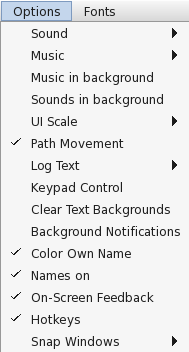
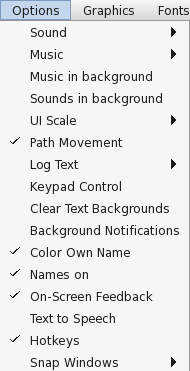
20260809

diff --git a/md/tutorial.md b/md/tutorial.md
@@ -10,11 +10,13 @@ Oberinの最初のログイン
 
 ## 長いまとめ
 
-　初めてOberinにログインするとDemo's Landingと呼ばれるチュートリアルエリアからスタートする。
+　初めてOberinにログインすると**Demo's Landing**と呼ばれるチュートリアルエリアからスタートする。
 
 　最初はメインウインドウだけが表示されている。
 
 ![初期画面](img/default.png)
+
+（注：これはバージョン48.02の画面に48.04のメニューバーの変更分を合成した捏造写真です）
 
 　ここで基本的な操作を一通り覚えてから先に進もう。
 
@@ -24,21 +26,23 @@ Oberinの最初のログイン
         
         　メインウインドウの適当な場所をクリックすると移動する。
         
-        　WindowsではCtrlキー＋クリック・MacではControlキー＋クリックだと移動せず、キャラクターの向きだけ変える。
+        　Windowsでは`Ctrl`＋`クリック`・Macでは`Control`＋`クリック`だと移動せず、キャラクターの向きだけ変える。
         
     - **攻撃**
 
-        　この場ではまだできないけど、WindowsではAltキー＋クリック・MacではOptionキー＋クリックでクリックした対象に攻撃する。
+        　この場ではまだできないけど、Windowsでは`Alt`＋`クリック`・Macでは`Option`＋`クリック`でクリックした対象に攻撃する。
 
         　飛び道具を持っていたら射程内かつ射線が通っていれば攻撃できる。近接武器の場合は至近距離まで近づかないと駄目。
 
     - **発言**
         
-        　**デフォルトでは**Enterキーを押すとメインウインドウ下部の発言窓にチャット入力ができる。何か書き込んでからもう一度Enterキーを押すと実際に発言する。
+        　キーボードから何か打ち込むと、メインウインドウ下部の発言窓にチャット入力ができる。何か書き込んでから`Enter`を押すと実際に発言する。
 
-        　また、発言入力で『/』から始まる文字列を入れるとテキストコマンドとして処理され、普通の発言ではなく何らかの特殊な効果を及ぼす。例えば『/Fishing』と発言するとFishingスキルを使用するのと同じ効果があり、他にも『/help』ならGMを呼び出すコマンドだ。
+        （注： **メニューバーのOptionsにある『Hotkeys』がオンになっている場合は、チャット入力の前に一度`Enter`を押す必要がある。** 昔はHotkeysはオフがデフォルトで、いつ頃からかオンがデフォルトになっていたが、バージョン48.04からまたオフがデフォルトになった……と思いきや、まだオンがデフォルトのままになっていたりするようだ。多分アップデートの際の設定ミスで、最終的にはオフをデフォルトにする方針なのだろうと思われるが…）
 
-        　日本語などのマルチバイト文字の発言はWindowsでは一応書き込めるがMacでは書き込めない。これは一体どうなっとるんか？と思ったら、以前開発者がマルチバイト文字に正式対応するかどうか日本人プレイヤーの意見を募ったところ、コミュニティの総意として「別に要らん」という話になってそのまま対応を見送ったらしい。まあ日本語で発言してもフォント設定で日本語表示に対応してないフォントを選ぶとゲーム画面では文字化けしてしまって読めない（ログファイルを直接開くと普通に日本語の文字として読める）し、海外のプレイヤーはマルチバイト文字を解読するのが非常に大変なので、そもそも英語圏のゲームだって考えたらこんなもんだろう。ちなみにOberinではローマ字での日本語の会話は普通にされている。つまり、nihongono kaiwaha ro-majide siyouneってことだ。この文化は15年前にもあったけど、慣れないとちょっと面倒かも知れないな。
+        　また、発言入力で『`/`』から始まる文字列を入れるとテキストコマンドとして処理され、普通の発言ではなく何らかの特殊な効果を及ぼす。例えば『`/Fishing`』と発言するとFishingスキルを使用するのと同じ効果があり、他にも『`/help`』ならGMを呼び出すコマンドだ。
+
+        　日本語などのマルチバイト文字の発言はWindowsでは一応書き込めるがMacでは書き込めない。これは一体どうなっとるんか？と思ったら、以前開発者がマルチバイト文字に正式対応するかどうか日本人プレイヤーの意見を募ったところ、コミュニティの総意として「別に要らん」という話になってそのまま対応を見送ったらしい。まあ日本語で発言してもフォント設定で日本語表示に対応したフォントを選択してない限りゲーム画面では文字化けしてしまって読めない（ログファイルを直接開くと普通に日本語の文字として読める）し、海外のプレイヤーはマルチバイト文字を解読するのが非常に大変なので、そもそも英語圏のゲームだって考えたらこんなもんだろう。ちなみにOberinではローマ字での日本語の会話は普通にされている。つまり、**nihongono kaiwaha ro-majide siyoune**ってことだ。この文化は15年前にもあったけど、慣れないとちょっと面倒かも知れないな。
         
         　なお、今のところチャット入力にコピペは使えない。使えたら色々と便利だったんだけどなあ。
         
@@ -50,9 +54,9 @@ Oberinの最初のログイン
         
         　足元のアイテムを拾う『Get』と『Get All』、店でアイテムの売り買いができる『Buy』と『Sell』、何かを調べる『Identify』、アイテムを修理する『Repair』など。『Trade』ってのは何なのか分かんないな、昔こんなのあったか？　『Chess』は確か、チェス盤があるところで使うと他の人とチェスで対戦できる、とかだったはず。
         
-        　いちいちマウスでぽちぽちするのは面倒くさいので、キーボードショートカットを覚えておこう。特にGet All（WindowsならCtrlキー＋A、Macなら⌘キー＋A）は頻繁に使うことになるだろう。
+        　いちいちマウスでぽちぽちするのは面倒くさいので、キーボードショートカットを覚えておこう。特にGet All（Windowsなら`Ctrl`＋`A`、Macなら`⌘`＋`A`）は頻繁に使うことになるだろう。
 
-        　また、今は試せないけど店で売り買いする時には、アイテムを選ぶ際にWindoesならCtrlキー＋クリック・MacならControlキー＋クリックで全部を一気に、WindoesならAltキー＋クリック・Macなら⌘キー＋クリックで個数を指定して処理することができる。
+        　また、今は試せないけど店で売り買いする時には、アイテムを選ぶ際にWindoesなら`Ctrl`＋`クリック`・Macなら`Control`＋`クリック`で全部を一気に、Windoesなら`Alt`＋`クリック`・Macなら`⌘`＋`クリック`で個数を指定して処理することができる。
         
 2. **各種のウインドウを並べてみる**
     
@@ -70,17 +74,17 @@ Oberinの最初のログイン
         
         　アイテムをクリックするとそのアイテムを使う、食べる、もしくは装備する。赤字になっているのは現在装備中のアイテムだ。
         
-        　左側の⇩はそのアイテムを1個捨てる、⇨はそのアイテムを1個渡す。WindowsならCrtlキーを押しながら・Macなら⌘キーを押しながら⇩や⇨を押すとそのアイテムを全部捨てたり渡したりできる。また、いずれもAltキー＋クリックで個数を指定して捨てたり渡したりもできる。
+        　左側の『⇩』はそのアイテムを1個捨てる、『⇨』はそのアイテムを1個渡す。Windowsなら`Crtl`を押しながら・Macなら`⌘`を押しながら『⇩』や『⇨』を押すとそのアイテムを全部捨てたり渡したりできる。また、いずれも`Alt`＋`クリック`で個数を指定して捨てたり渡したりもできる。
         
-        　あと、Shiftキーを押しながらアイテムをドラッグすることでアイテムの並べ替えができる。
+        　あと、`Shift`を押しながらアイテムをドラッグすることでアイテムの並べ替えができる。
         
-        　ちなみに落としたアイテムは上に乗ってメニューの『Action』からGetかGet Allをすれば拾い直せる。操作の練習で落としたものはちゃんと拾っておこうね。
+        　ちなみに落としたアイテムは上に乗ってメニューの『Action』から『Get』か『Get All』をすれば拾い直せる。操作の練習で落としたものはちゃんと拾っておこうね。
 
     - **Skills（スキル）**
         
         　スキル一覧。
 
-        ![Skillsウインドウ](img/skills.png)
+        ![このスキルを割り振った奴は誰だあっ！？](img/skills.png)
         
         　それぞれのスキルをクリックするとそのスキルを使用できる。左側にチェックボックスがないものは常時発動のパッシブ効果しかなくて、自発的に使用する必要がない（要するにクリックできない）スキルだ。
     
@@ -144,7 +148,7 @@ Oberinの最初のログイン
 
 1. **その他の設定を弄る**
     
-    　メニューバーのOptionsとFontsでそれぞれ細かいゲームのオプションと表示フォントを弄れる。
+    　メニューバーの『Options』と『Graphics』と『Fonts』でそれぞれ細かいゲームの設定とかを弄れる。
     
     - **Options（オプション）**
         
@@ -184,7 +188,7 @@ Oberinの最初のログイン
 
             　んで『Split per character』がオンになってるとログがキャラクターごとに分けて保存される。
 
-            　ログはデフォルトではOberinの設定ファイルが置いてある場所（Windowsの場合はC:\Users\Owner\AppData\Local\Oberin_BE・Macの場合は/Users/○○○/Library/Application Support/Oberin_BE）に作られるLogsフォルダの中に保存されるけど、設定ファイルを直接編集することで任意の場所に保存するようにもできるみたいだ。試してないから本当にできるかは知らんけど。
+            　ログはデフォルトではOberinの設定ファイルが置いてある場所（Windowsの場合は`C:\Users\Owner\AppData\Local\Oberin_BE`・Macの場合は`/Users/○○○/Library/Application Support/Oberin_BE`）に作られるLogsフォルダの中に保存されるけど、設定ファイルを直接編集することで任意の場所に保存するようにもできるみたいだ。試してないから本当にできるかは知らんけど。
 
         - **Keypad Control**
 
@@ -216,17 +220,39 @@ Oberinの最初のログイン
 
             　キャラクターの行動ログを一定時間メインウインドウにも表示する。
 
+        - **Text to Speech**
+        
+            　画面の読み上げ機能を有効にする。バージョン48.04で追加された。
+            
+            　何か、これをオンにしてあちこち画面を右クリックすると、クリックした場所のテキストを読み上げたりするらしい。それで何の意味があるのかは私には分からん……もしかして：老眼対策？
+
         - **Hotkeys**
 
-            　ホットキーを有効にする。
+            　ホットキーの拡張機能を有効にする。
 
-            　簡単に言うと、Oberinにはキーボードのファンクションキーや数字キーに任意の発言やテキストコマンドを割り当てることができて、この設定がオンだとファンクションキー・数字キーの両方にテキストコマンドを使えるようになる代わりに発言入力の前に一度Enterを押さないといけなくなる。オフだとファンクションキーだけ使えて数字キーが使えなくなるが、代わりにEnterを押さなくても発言入力ができるようになる。
+            　簡単に言うと、Oberinにはキーボードのファンクションキーや数字キーに任意の発言やテキストコマンドを割り当てることができて、この設定がオンだとファンクションキー・数字キーの両方にテキストコマンドを使えるようになる代わりに発言入力の前に一度`Enter`を押さないといけなくなる。オフだとファンクションキーだけ使えて数字キーが使えなくなるが、代わりに`Enter`を押さなくても発言入力ができるようになる。
 
         - **Snap Windows**
 
             　各ウインドウをピタッと揃える。
 
             『Enabled』をオンにするとその下の『Snap Horizontally』『Snap Vertically』『Snap to Corners』のそれぞれのオン/オフに応じて縦・横・カドで揃うようになる。
+    
+    - **Graphics**
+
+        （画像は省略）
+
+        - **Arachnophobia**
+
+            　クモ恐怖症対策モード。バージョン48.04で追加された。
+            
+            　これがオンになるとクモ系モンスターが『4本の足が生えた巨大な樽』になる。デカすぎて普通に怖い。クモ恐怖症って一般的には8本の脚がわさわさ動くのが怖いと思うのだが、4本足の巨大な樽が迫ってくるのは良いのか…？　私には良く分からん。
+
+        - **Legacy Gooey**
+
+            　Gooeyのグラフィックを古いものに差し替える。バージョン48.04で追加された。
+
+            　Gooeyというのは巨大なメロンゼリーというか、ガチ勢が考えた殺意がエグい方のスライムみたいな感じのモンスターで、バージョンアップでこれのグラフィックがよりキモくなったことに対する対策のようだ。良く分からん…。
 
     - **Fonts（フォント）**
         
@@ -314,15 +340,15 @@ Oberinの最初のログイン
 
 1. **GMを呼んでみる**
     
-    　現時点ではあなたのキャラクターの名前は『(demo)』になっているはずだ。とりあえずEnterを1回、次に『/help』と入力してさらにEnterを押して、GMを呼び出して名前を審査して貰おう。
+    　現時点ではあなたのキャラクターの名前は『**(demo)**』になっているはずだ。とりあえず『`/help`』と入力して`Enter`を押して、GMを呼び出して名前を審査して貰おう。
     
-    『Your request has been sent to a Game Master.（あなたのリクエストはGMに送信されました）』と表示されたらGMがオンラインなので、しばらく待っていたらGMがやって来るだろう。待っててもGMが来なかったら、少し時間を置いてからもう一度『/help』と打ち込んで催促してみよう。
+    『Your request has been sent to a Game Master.（あなたのリクエストはGMに送信されました）』と表示されたらGMがオンラインなので、しばらく待っていたらGMがやって来るだろう。待っててもGMが来なかったら、少し時間を置いてからもう一度『`/help`』と打ち込んで催促してみよう。
     
-    『You must wait at least 2 minutes between each help request.（ヘルプリクエストは最低2分空けないと遅れません）』と表示されたら短時間で『/help』を打ちすぎである。大人しく2分待とう。
+    『You must wait at least 2 minutes between each help request.（ヘルプリクエストは最低2分空けないと遅れません）』と表示されたら短時間で『`/help`』を打ちすぎである。大人しく2分待とう。
     
-    『There are no Game Masters available right now.  Please try again later.（現在GMが不在です。後ほど再度お試し下さい）』と表示された場合はそのタイミングではGMが居ないので、また後日にでも『/help』と打ち込んでGMを呼び出そう。
+    『There are no Game Masters available right now.  Please try again later.（現在GMが不在です。後ほど再度お試し下さい）』と表示された場合はそのタイミングではGMが居ないので、また後日にでも『`/help`』と打ち込んでGMを呼び出そう。
     
-    　GMの中の人はそのほとんどが欧米在住のはずなので、日本人が活動する時間帯には仕事をしているか寝ているかしてオフラインなことが多い（日本の夜20時はヨーロッパの昼12〜14時くらいで、アメリカの早朝3〜6時である）。10回や20回の『/help』では捕まらないのが普通なので、最悪1週間くらいはかかる覚悟で気長にやろう。ちなみに私の『/help』連続ノーリアクション記録は11日です。
+    　GMの中の人はそのほとんどが欧米在住のはずなので、日本人が活動する時間帯には仕事をしているか寝ているかしてオフラインなことが多い（日本の夜20時はヨーロッパの昼12〜14時くらいで、アメリカの早朝3〜6時である）。10回や20回の『`/help`』では捕まらないのが普通なので、最悪1週間くらいはかかる覚悟で気長にやろう。ちなみに私の『`/help`』連続ノーリアクション記録は11日です。
 
     ![Activateの儀](img/activate.png)
     
@@ -367,6 +393,6 @@ Q. **間違えてMaraliに行ってしまいました。助けて！！**
 
 A. あれほどヤメロと言ったのに何でそんなことするの？　アホなの？　マゾなの？
 
-　もはやあなたを救う手段はないので『/help』でGMを呼んでLerilinに飛ばしてもらえ。
+　もはやあなたを救う手段はないので『`/help`』でGMを呼んでLerilinに飛ばしてもらえ。
 
 　GMをタクシー代わりに使うのは救急車でそれをやる次の次くらいに罪深い行為だけど、さすがにMaraliだけは許されるだろう。

diff --git a/md/characreate.md b/md/characreate.md
@@ -181,7 +181,7 @@ Oberinのキャラクター作成
 
 - **Stealth（ステルス）**
 
-    　姿を消したまま移動するスキル。
+    　姿を消したまま移動する。
 
 - **Tailoring（裁縫）**
 
@@ -213,13 +213,13 @@ Oberinのキャラクター作成
 
 #### I agree to the Terms of Services
 
-　日本語に訳すと『私は利用規約（Terms of Services: ToS）に同意します』ってこと。利用規約に同意しないとゲームを遊べないのでチェックする。
+　日本語に訳すと『`私は利用規約（Terms of Services: ToS）に同意します`』ってこと。利用規約に同意しないとゲームを遊べないのでチェックする。
 
 　[ちなみに私がToSを適当に日本語訳したものはここにあるよ](?tos)。
 
 #### Create Character
 
-　入力情報に抜けがなく、ちゃんとスキルポイントを使い切っていて、『ToSに同意する』にチェックしてあれば、キャラ作成ボタンが押せるようになる。
+　入力情報に抜けがなく、ちゃんとスキルポイントを使い切っていて、『`I agree to the Terms of Services`』にチェックしてあれば、キャラ作成ボタンが押せるようになる。
 
 　キャラクターができたらさっそくログインしてみよう！
 
@@ -261,27 +261,27 @@ A. そんなの知らんがなー。
 
 - **Fighter**
 
-    　Prime Skillはどれも普通に戦っていれば勝手に上がっていくので、最初に取るべきスキルとしてはあまり重視されないようだ。装備の消耗が激しいので武具を自作できるようにMiningとBlacksmithing、余裕があればLumberjackingに振っておくと良いらしい。また、Anatomyが高いとクリティカル率が上がり、特に上位の硬いモンスターとの戦いが楽になる（このゲームのクリティカルヒットは相手の防御力を無視するので、高位のモンスターが相手の時ほどメリットが大きい）。Resisting Magicがあると魔法を使ってくるモンスターとの戦いが楽になるが、戦っていれば自然に上限に到達するので最初に振る必要はないという意見もある。個人的にはそれでもResisting Magic 1はヤバいと思うんだが。
+    　Prime Skillはどれも普通に戦っていれば勝手に上がっていくので、最初に取るべきスキルとしてはあまり重視されないようだ。装備の消耗が激しいので武具を自作できるように`Mining`と`Blacksmithing`、余裕があれば`Lumberjacking`に振っておくと良いらしい。また、`Anatomy`が高いとクリティカル率が上がり、特に上位の硬いモンスターとの戦いが楽になる（このゲームのクリティカルヒットは相手の防御力を無視するので、高位のモンスターが相手の時ほどメリットが大きい）。`Resisting Magic`があると魔法を使ってくるモンスターとの戦いが楽になるが、戦っていれば自然に上限に到達するので最初に振る必要はないという意見もある。個人的にはそれでも`Resisting Magic` 1はヤバいと思うんだが。
 
 - **Ranger**
 
-    　Prime SkillではTrackingを2以上にしておくことが強く推奨されている（スキルの仕様上1から2に上げるのが大変らしい）。また、Special/Ranger 4で覚えるEscape Moveが非常に強力でオススメらしい。他には、Woodcraftingが5になると弓と矢を自作できるようになるので財布に優しく、それを見越して4にしておくことが提案されていた。残りのポイントはLumberjackingかResisting Magicに振るのが無難だろうか？
+    　Prime Skillでは`Tracking`を2以上にしておくことが強く推奨されている（スキルの仕様上1から2に上げるのが大変らしい）。また、`Special/Ranger` 4で覚えるEscape Moveが非常に強力でオススメらしい。他には、`Woodcrafting`が5になると弓と矢を自作できるようになるので財布に優しく、それを見越して4にしておくことが提案されていた。残りのポイントは`Lumberjacking`か`Resisting Magic`に振るのが無難だろうか？
 
 - **Rogue**
 
-    　Prime Skillではレベル上げが大変なStealthにポイントを振ることを推奨されている。他にはLockpickingとRemoving Traps（これらもレベル上げがかなり大変）。あと、Blacksmithingが2あるとGM Dagger（高品質な短剣）を自作できるので良いらしい。残りは例によってResisting Magicで。
+    　Prime Skillではレベル上げが大変な`Stealth`にポイントを振ることを推奨されている（というが、バージョン48.04で大幅に緩和されたっぽいので今後どうなのかは良く分からん）。他には`Lockpicking`と`Removing Traps`（これらもレベル上げがかなり大変）。あと、`Blacksmithing`が2あるとGM Dagger（高品質な短剣）を自作できるので良いらしい。残りは例によって`Resisting Magic`で。
 
 - **Wizard**
 
-    　Prime SkillではMagery/Wizardを4にしておくことが推奨されている（レベル4でExplosionやParalyzeといったそこそこ便利な魔法が使えるのと、Wizardのメイン火力とされるレベル5のLightning Boltを少しでも早く覚えるため）。また、HPが低いのでResisting Magicはなるべく高い方が良い。Enchantingで金策をする際にMiningとLumberjackingが高いと素材の収集効率が良いらしいが、Enchanting自体はレベル上げが簡単なので最初は低くても良いみたいだ。
+    　Prime Skillでは`Magery/Wizard`を4にしておくことが推奨されている（レベル4でExplosionやParalyzeといったそこそこ便利な魔法が使えるのと、Wizardのメイン火力とされるレベル5のLightning Boltを少しでも早く覚えるため）。また、HPが低いので`Resisting Magic`はなるべく高い方が良い。`Enchanting`で金策をする際に`Mining`と`Lumberjacking`が高いと素材の収集効率が良いらしいが、`Enchanting`自体はレベル上げが簡単なので最初は低くても良いみたいだ。
 
 - **Cleric**
 
-    　Prime SkillではMagery/ClericとMeditationが高いと回復魔法の効率が良くなる（と書かれてはいるのだが、現行のバージョン48のMeditationはMPが減っていれば自動的に発動するパッシブスキルで特に意識しなくても勝手にレベルが上がっていくものなので、最初にポイントを振る価値があるかは個人的には疑わしい）。あとAlchemy/Clericが高いと序盤から金策がしやすいらしい。HPが低いのでResisting Magicもなるべく高い方が良い。また、Tailoringに多少振っておくと革製の防具を自作できるようになって多少は命の危険が減るらしい？（個人的にはそんなのわざわざ自作するまでもなく、その辺の親切な先輩冒険者がポンと一式くれそうな気がするんだが）
+    　Prime Skillでは`Magery/Cleric`と`Meditation`が高いと回復魔法の効率が良くなる（と書かれてはいるのだが、現行のバージョン48の`Meditation`はMPが減っていれば自動的に発動するパッシブスキルで特に意識しなくても勝手にレベルが上がっていくものなので、最初にポイントを振る価値があるかは個人的には疑わしい）。あと`Alchemy/Cleric`が高いと序盤から金策がしやすいらしい。HPが低いので`Resisting Magic`もなるべく高い方が良い。また、`Tailoring`に多少振っておくと革製の防具を自作できるようになって多少は命の危険が減るらしい？（個人的にはそんなのわざわざ自作するまでもなく、その辺の親切な先輩冒険者がポンと一式くれそうな気がするんだが）
 
 - **Druid**
 
-    　特に決まったセオリーはないようだけど、Prime SkillではTamingが4あるとHarpie（使役にできる下級モンスターの中では満場一致の最強＆最高）をテイムできるようになって、序盤からかなり無理ができるようになる。他には、Magery/Druid（もしくはAlchemy/Druid）が3以上あるとInvisibliltyが使える（もしくはInvisiblity Potionが作れる）ようになって緊急事態での生存率がぐっと上がる。残りはやはりResisting Magicだろうか。
+    　特に決まったセオリーはないようだけど、Prime Skillでは`Taming`が4あるとHarpie（使役にできる下級モンスターの中では満場一致の最強＆最高）をテイムできるようになって、序盤からかなり無理ができるようになる。他には、`Magery/Druid`（もしくは`Alchemy/Druid`）が3以上あるとInvisibliltyが使える（もしくはInvisiblity Potionが作れる）ようになって緊急事態での生存率がぐっと上がる。残りはやはり`Resisting Magic`だろうか。
 
 ### 余談
 

diff --git a/md/download.md b/md/download.md
@@ -1,6 +1,7 @@
 <!--
 Oberinのダウロードとインストール
 　Oberinのダウンロードとインストール、初回の起動まで。
+　バージョン情報に関する言及があるので、そこは何かあったら直さなあかん。めんどい…。
 -->
 
 ## Oberinのダウンロードとインストール
@@ -22,14 +23,21 @@ Oberinのダウロードとインストール
     
 1. **公式サイトでOberinのクライアントアプリをダウンロードする。**
     
-    　ゲームのダウンロードは公式サイトの上か左のメニューの『Play the game』から。現時点での最新版はバージョン48.02。たまに新バージョンが出ているのに公式サイトのダウンロードページの更新が間に合ってないことがあるけど、その時は『Most recent announcement』の下の最新ニュースのところに最新版のダウンロードリンクがあったりする。
+    　ゲームのダウンロードは公式サイトの上か左のメニューの『`Play the game`』から。現時点での最新版はバージョン48.04。
     
-    ![公式サイト](img/officialsite.png)
+    　たまに新バージョンが出ているのに公式サイトのダウンロードページの更新が間に合ってないことがあるけど、その時は大抵『`Most recent announcement`』の下の最新ニュースのところに最新版のダウンロードリンクがあったりするぞ。
     
-    　自分のパソコンのOSが分からない人は、Windowsの場合はスタート（画面下の左端の窓マーク） → 設定 → システム → バージョン情報 → ぐっと下の方のWindowsの情報、とか見ると Windows 8.1 とか 10 Pro とか 11 Home とか書いてあるんじゃなかろか。知らんけど。
+    ![公式サイト](img/download1.png)
     
-    　Macの場合は画面の一番左上のリンゴマーク → このMacについて → チップのところに Apple M1 とか M2 とか M3 とか書いてあればApple Silicon搭載Macで、その代わりにプロセッサのところになんちゃら Intel 云々って書いてあったらIntel Macだ。Intel Macの場合はmacOSのところのバージョン番号が10.15以上でないとOberinが動かないので注意。まあ世代的な話で言うと、2012年以降に発売のMacでOSのアップデートをちゃんとやってたなら条件は満たしているはずだよ。知らんけど。
+    　使っているパソコンのOSの種類とバージョンによってダウンロードするファイルが変わるので、適切なものを選ぶ。
+
+    ![ダウンロードするファイルを選ぶ](img/download2.png)
+
+    　自分のパソコンのOSが分からない人は、Windowsの場合は`スタート`（画面下の左端の窓マーク） → `設定` → `システム` → `バージョン情報` → ぐっと下の方の`Windowsの情報`、とか見ると Windows 8.1 とか 10 Pro とか 11 Home とか書いてあるんじゃなかろか。知らんけど。
     
+    　Macの場合は画面の一番左上の`リンゴマーク` → `このMacについて` → `チップ`のところに Apple M1 とか M2 とか M3 とか書いてあればApple Silicon搭載Macで、その代わりにプロセッサのところになんちゃら Intel 云々って書いてあったらIntel Macだ。Intel Macの場合はmacOSのところのバージョン番号が10.15以上でないとOberinが動かないので注意。まあ世代的な話で言うと、2012年以降に発売のMacでOSのアップデートをちゃんとやってたなら条件は満たしているはずだよ。知らんけど。
+
+    <!-- ここは情報が古いので消しておく。
     　ダウンロードリンクをクリックするとGoogleドライブからアプリをダウンロードできる。
     
     ![Googleドライブ](img/gogoledrive.png)
@@ -43,20 +51,21 @@ Oberinのダウロードとインストール
     ![ウイルススキャンの警告](img/scan.png)
     
     　これで少し待つとファイルがダウンロードされる。
+    -->
     
 1. **圧縮ファイルを解凍する。**
     
-    　Windowsの場合は圧縮ファイルをダブルクリックしても中身が見えるだけで解凍してくれないので、右クリックから『すべて展開…』を選ぼう。
+    　Windowsの場合は圧縮ファイルをダブルクリックしても中身が見えるだけで解凍してくれないので、右クリックから『`すべて展開…`』を選ぼう。
     
     ![右クリックメニューから『全て展開…』を選ぶ](img/unzip_win.png)
     
-    　Macの場合はダウンロードしたら自動的に解凍されるはずだけど、圧縮ファイルのままであった場合は改めてダブルクリックすれば解凍されるだろう。それでエラーが出る場合はシステム内臓の解凍ソフトがへちゃむくれてるので、The Unarchiverとかをダウンロードしてきて使うと良いらしいぞ。
+    　Macの場合はダウンロードしたら自動的に解凍されるはずだけど、圧縮ファイルのままであった場合は改めてダブルクリックすれば解凍されるだろう。それでエラーが出る場合はシステム内臓の解凍ソフトがへちゃむくれてるので、[The Unarchiver](https://apps.apple.com/jp/app/the-unarchiver/id425424353)とかをダウンロードしてきて使うと良いらしいぞ。
     
     　特にインストーラとかはないので、解凍して出てきたアプリはフォルダごと好きな場所に置いてしまってOKだ。
     
 1. **OberinClientをダブルクリックする。**
     
-    　Oberinのクライアントアプリ（Windowsの場合は OberinClient.exe で、Macの場合は OberinClient ）をダブルクリックするとゲームが起動する。
+    　Oberinのクライアントアプリ（Windowsの場合は `OberinClient.exe` で、Macの場合は `OberinClient` ）をダブルクリックするとゲームが起動する。
     
 1. **セキュリティソフトがブロックしてきたら解除する。**
     
@@ -66,7 +75,7 @@ Oberinのダウロードとインストール
     
     ![WindowsのMicrosoft Defender SmartScreenの警告](img/security_win1.png)
     
-    　そこで『詳細情報』を押すと『実行』ボタンが出るので、それで起動できる。これ分かりにくいよなー。
+    　そこで『`詳細情報`』を押すと『`実行`』ボタンが出るので、それで起動できる。これ分かりにくいよなー。
     
     ![WindowsのMicrosoft Defender SmartScreenの警告](img/security_win2.png)
     
@@ -90,4 +99,4 @@ Oberinのダウロードとインストール
     
     　以前このゲームをプレイしたことがある人は昔のキャラでログインできるかも知れない。2005年のオープンβテストの再開から後に作られたキャラクターのデータは残っているそうだ（残念ながらそれ以前に作られたキャラクターはデータが失われている）。
     
-    　キャラクターがもう存在しないか、もしくはキャラクターの名前やパスワードを忘れてしまったとか、そもそもまだキャラクターを作っていない場合は、いずれにせよまずは[キャラクターの作成](?characreate)が必要だ。
+    　キャラクターがもう存在しないか、もしくはキャラクターの名前やパスワードを忘れてしまったとか、そもそもまだキャラクターを作っていない場合は、いずれにせよまずはキャラクターの作成が必要だ。
